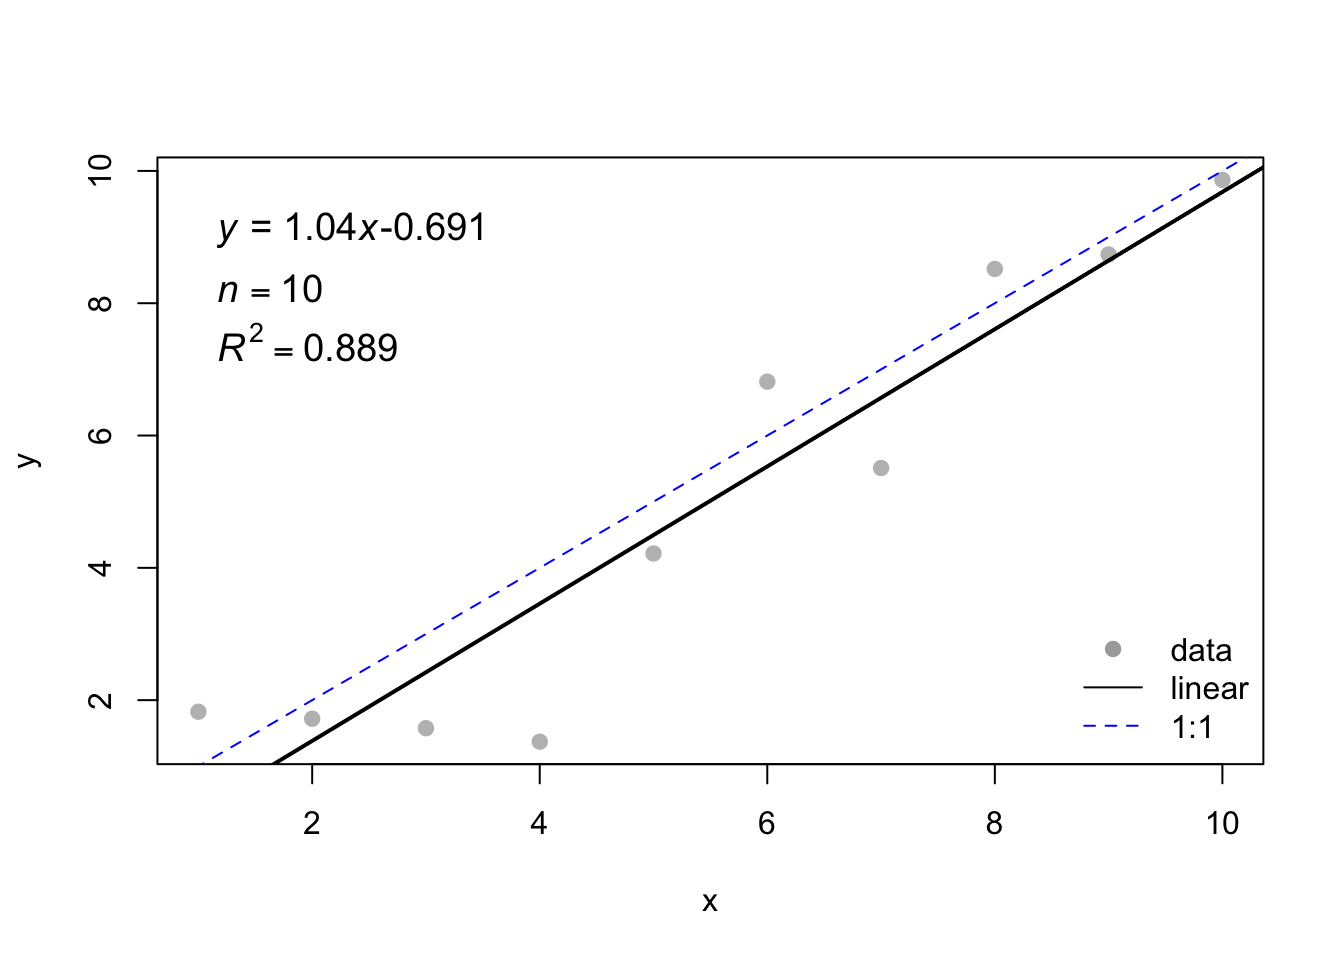
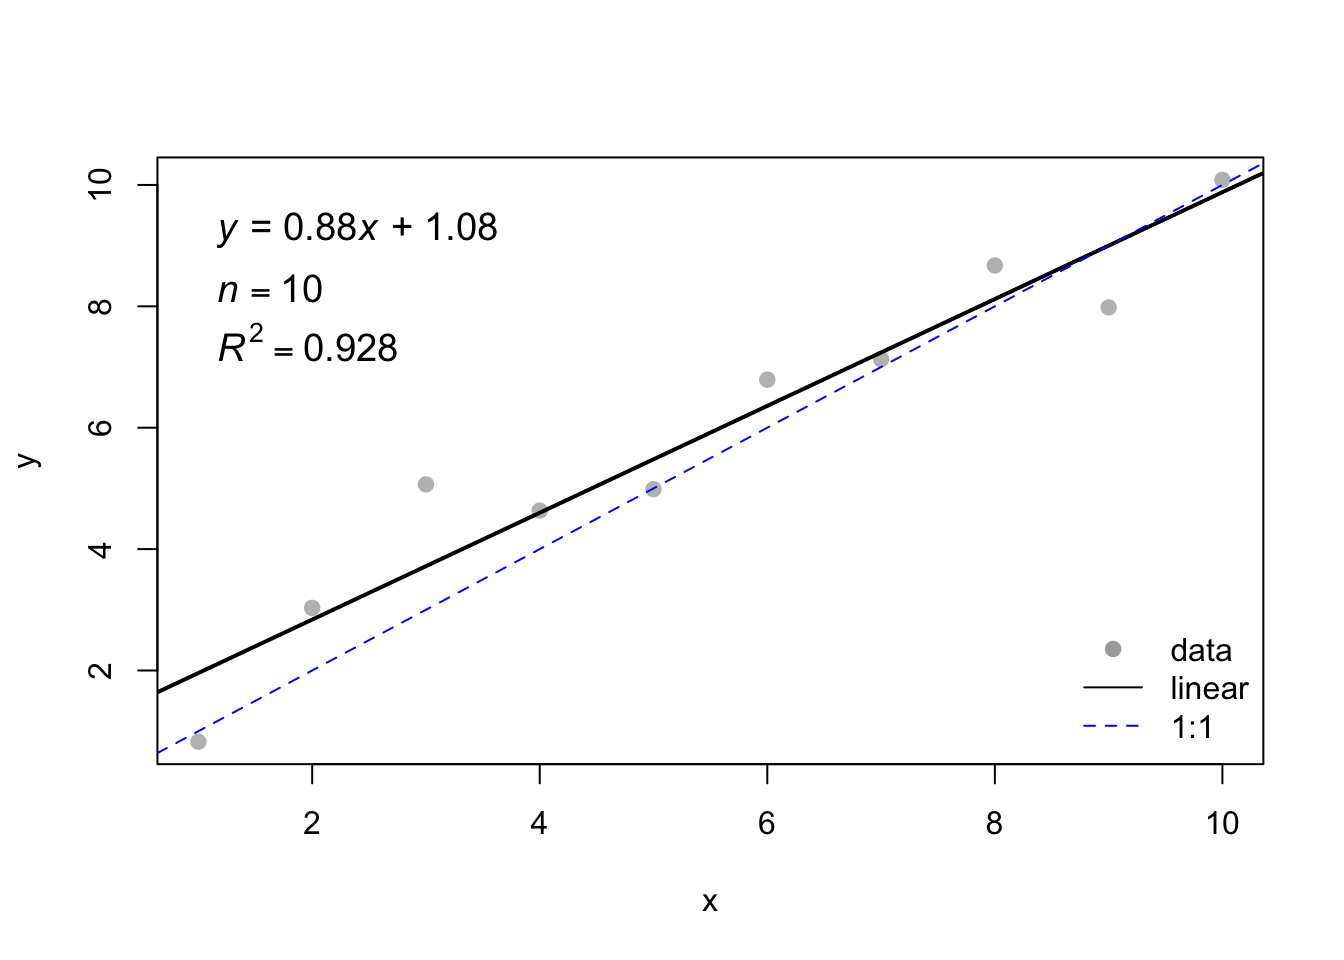
updated

diff --git a/content/post/2017-05-16-errorbar.html b/content/post/2017-05-16-errorbar.html
@@ -1,0 +1,73 @@
+---
+title: '에러바 만드는 법'
+slug: plot-errorbar
+date: '2017-05-26'
+categories: [R]
+tags: [R, ggplot2]
+banner: 'post/errorbar_files/figure-html/unnamed-chunk-2-1.png'
+---
+
+
+
+<p>R에 기본적으로 내장된 Indometh (Indomethacin IV bolus 시의 PK) 의 concentration-time curve를 ggplot2와 Hmisc 패키지를 사용해 각각 그려보겠습니다.</p>
+<p>먼저 ggplot2를 사용해 그림을 그려보면 다음과 같습니다.</p>
+<pre class="r"><code>library(ggplot2)
+head(Indometh)</code></pre>
+<pre><code>##   Subject time conc
+## 1       1 0.25 1.50
+## 2       1 0.50 0.94
+## 3       1 0.75 0.78
+## 4       1 1.00 0.48
+## 5       1 1.25 0.37
+## 6       1 2.00 0.19</code></pre>
+<pre class="r"><code>ggplot(Indometh, aes(x=time, y=conc, col = Subject)) + 
+  geom_line() +
+  geom_point()</code></pre>
+<p><img src="/post/2017-05-16-errorbar_files/figure-html/unnamed-chunk-1-1.png" width="672" /></p>
+<div id="ggplot2--errorbar-" class="section level2">
+<h2>ggplot2를 사용하여 errorbar 그리기</h2>
+<ul>
+<li><code>stat_summary</code> 함수를 사용하여 손쉽게 계산할 수 있습니다.</li>
+</ul>
+<pre class="r"><code>ggplot(Indometh, aes(x=time, y=conc)) + 
+  stat_summary(fun.y=mean, geom=c(&quot;line&quot;), size=0.3) +
+  stat_summary(fun.y=mean, geom=c(&quot;point&quot;), size=2) +
+  stat_summary(fun.data = &quot;mean_cl_boot&quot;, geom = &quot;errorbar&quot;, col = &quot;red&quot;, width = 0.3)</code></pre>
+<p><img src="/post/2017-05-16-errorbar_files/figure-html/unnamed-chunk-2-1.png" width="672" /></p>
+</div>
+<div id="hmiscerrbar---error-bar-" class="section level2">
+<h2>Hmisc::errbar 함수를 사용하여 error bar 그리기</h2>
+<ul>
+<li>평균과 표준편차를 미리 계산해야 한다는 점에서 ggplot을 사용한 것보다 단점이 있습니다.</li>
+<li>Axis 4를 사용한 Y축이 두개인 그래프를 그릴때 활용할 수 있습니다.</li>
+</ul>
+<pre class="r"><code>library(dplyr)
+
+# Data Prep for Mean and SD
+Indometh2 &lt;- Indometh %&gt;% 
+  group_by(time) %&gt;% 
+  summarise(Concentration = mean(conc), StandardDev = sd(conc))
+Indometh2</code></pre>
+<pre><code>## # A tibble: 11 x 3
+##     time Concentration StandardDev
+##    &lt;dbl&gt;         &lt;dbl&gt;       &lt;dbl&gt;
+##  1  0.25    2.07666667  0.41355370
+##  2  0.50    1.32166667  0.27095510
+##  3  0.75    0.91833333  0.17634247
+##  4  1.00    0.68333333  0.20422210
+##  5  1.25    0.55666667  0.18704723
+##  6  2.00    0.33166667  0.09703951
+##  7  3.00    0.19833333  0.07652886
+##  8  4.00    0.13666667  0.03881580
+##  9  5.00    0.12500000  0.06410928
+## 10  6.00    0.09000000  0.02000000
+## 11  8.00    0.07166667  0.01471960</code></pre>
+<pre class="r"><code># Drawing
+with(Indometh2,
+     Hmisc::errbar(x = time,
+                   y = Concentration,
+                   yplus = Concentration+StandardDev,
+                   yminus = Concentration-StandardDev,
+                   col =&quot;red&quot;, type = &quot;b&quot;))</code></pre>
+<p><img src="/post/2017-05-16-errorbar_files/figure-html/unnamed-chunk-3-1.png" width="672" /></p>
+</div>

diff --git a/content/post/2017-07-31-beginr.html b/content/post/2017-07-31-beginr.html
@@ -2,16 +2,20 @@
 title: 'beginr이란 좋은 패키지를 발견했네요.'
 author: ~
 date: '2017-07-31'
-slug: ''
-categories: [korean]
+slug: 'beginr'
+categories: [패키지, 한국어]
 tags: [r, beginr]
-banner: ''
+banner: 'http://images.roadtrafficsigns.com/img/lg/X/Begin-Sign-X-M4-11.gif'
 description: ''
 images: []
 menu: ''
 ---
 
 
+
+<p>오늘 소개해 드릴 <code>beginr</code> <a href="https://github.com/pzhaonet/beginr" class="uri">https://github.com/pzhaonet/beginr</a> 은 R을 처음 사용하는 사람들을 위해 여러가지 유용한 함수들을 모아놓은 패키지입니다.</p>
+<!--more-->
+<p>그 중 <code>plotlm</code> 함수는 정말 유용한 것 같습니다.</p>
 <pre class="r"><code>x &lt;- 1:10 
 y &lt;- 1:10 + rnorm(10)
 
@@ -20,9 +24,9 @@ beginr::plotlm(x, y, xlim = range(as.numeric(x), na.rm = TRUE),
        refline = TRUE, slope = 1, intercept = 0, showr2 = TRUE, showleg = TRUE)</code></pre>
 <p><img src="/post/2017-07-31-beginr_files/figure-html/unnamed-chunk-1-1.png" width="672" /></p>
 <pre><code>## [[1]]
-##               Estimate Std. Error    t value     Pr(&gt;|t|)
-## (Intercept) -0.6911543  0.8040481 -0.8595931 4.150278e-01
-## x            1.0375079  0.1295841  8.0064449 4.341584e-05
+##              Estimate Std. Error   t value     Pr(&gt;|t|)
+## (Intercept) 1.0781226 0.53778575  2.004744 7.992662e-02
+## x           0.8804608 0.08667202 10.158536 7.546769e-06
 ## 
 ## [[2]]
-## [1] 0.8890479</code></pre>
+## [1] 0.9280549</code></pre>

diff --git a/content/post/2017-06-13-pk-pd.html b/content/post/2017-06-13-pk-pd.html
@@ -1,18 +1,17 @@
 ---
-date: 2017-06-13
-title: Summary of PKPD of biotech drugs chapter 12
-categories: [medicine, english, pharmacology]
+title: 'Summary of PKPD of biotech drugs chapter 12'
+author: ~
+date: '2017-06-13'
+categories: [임상약리학]
 tags: [medicine, biothch-drug, pk, pd, new-drug-development]
 banner: 'http://www.nature.com/nrd/journal/v9/n4/images/nrd3003-f1.jpg'
 bibliography: 'bib/biotechch12.bib'
 ---
 
-<!-- BLOGDOWN-HEAD -->
-<!-- /BLOGDOWN-HEAD -->
 
-<!-- BLOGDOWN-BODY-BEFORE -->
-<!-- /BLOGDOWN-BODY-BEFORE -->
-<p>This is a summary of the book chapter 12. <span class="citation">(Meibohm 2006)</span> <!--more--></p>
+
+<p>This is a summary of the book chapter 12. <span class="citation">(Meibohm 2006)</span></p>
+<!--more-->
 <div id="hormones" class="section level2">
 <h2>Hormones</h2>
 <ul>

diff --git a/content/post/2017-03-08-ICH.md b/content/post/2017-03-08-ICH.md
@@ -1,12 +1,10 @@
 ---
 date: 2017-03-08
 title: ICH E18 - Genomic Sampling and Data
-categories: []
-tag: [Clinical Trial]
-output:
-  html_document:
-    keep_md: yes
+categories: [임상약리학]
+tag: [Clinical Trial, 임상약리학]
 ---
+
 제가 오늘 전문가회의에서 발표한 ICH E18 발표 자료로 Genomic sampling, genomic data에 대한 내용이 담겨있습니다.
 
 <http://www.ich.org/fileadmin/Public_Web_Site/ICH_Products/Guidelines/Efficacy/E18_Step2.pdf>

diff --git a/content/post/2017-08-26-macos-rjava.md b/content/post/2017-08-26-macos-rjava.md
@@ -25,6 +25,8 @@ sudo ln -f -s $(/usr/libexec/java_home)/jre/lib/server/libjvm.dylib /usr/local/l
 brew install cairo
 ```
 
+{{< tweet 895741807933259776 >}}
+
 **출처**
 
 - <http://www.lonecpluspluscoder.com/2017/04/27/installing-java-8-jdk-os-x-using-homebrew>

diff --git a/content/post/2017-03-06-tidy-data.md b/content/post/2017-03-06-tidy-data.md
@@ -2,7 +2,7 @@
 date: 2017-03-06
 title: 'Tidy Data?'
 slug: 'tidydata'
-categories: [english, R]
+categories: [패키지]
 tags: [R, tidyr, dplyr]
 banner: 'banners/dplyr.png'
 ---
